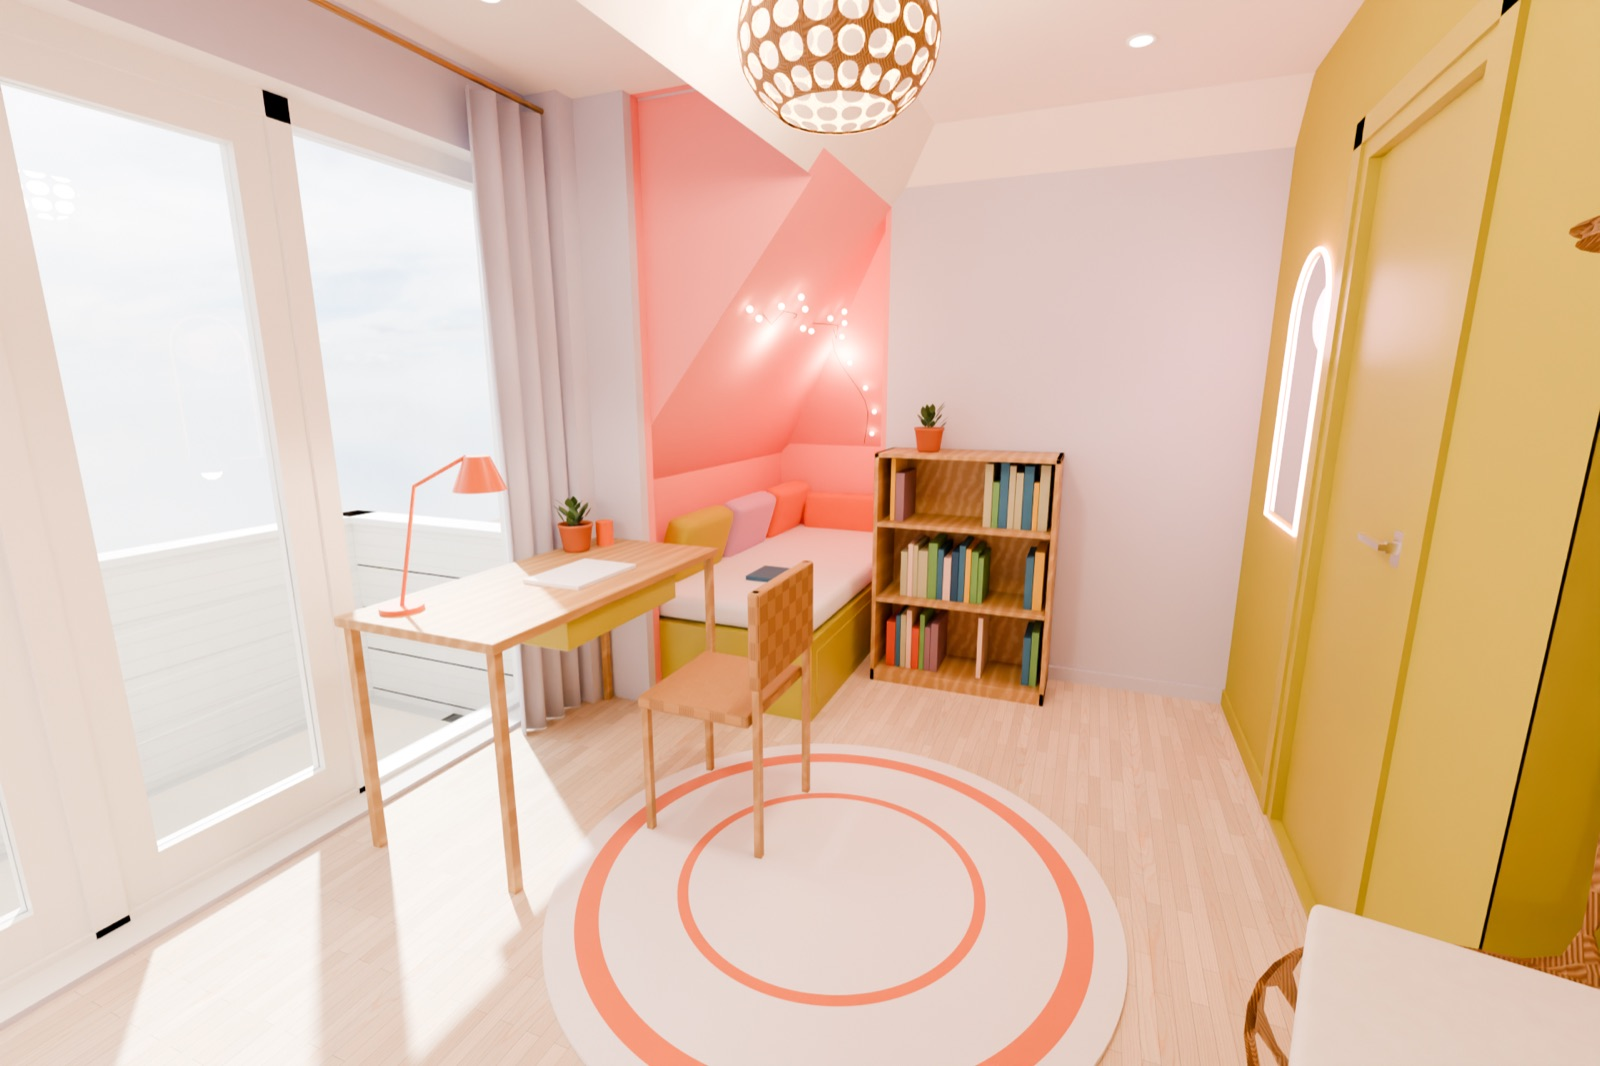
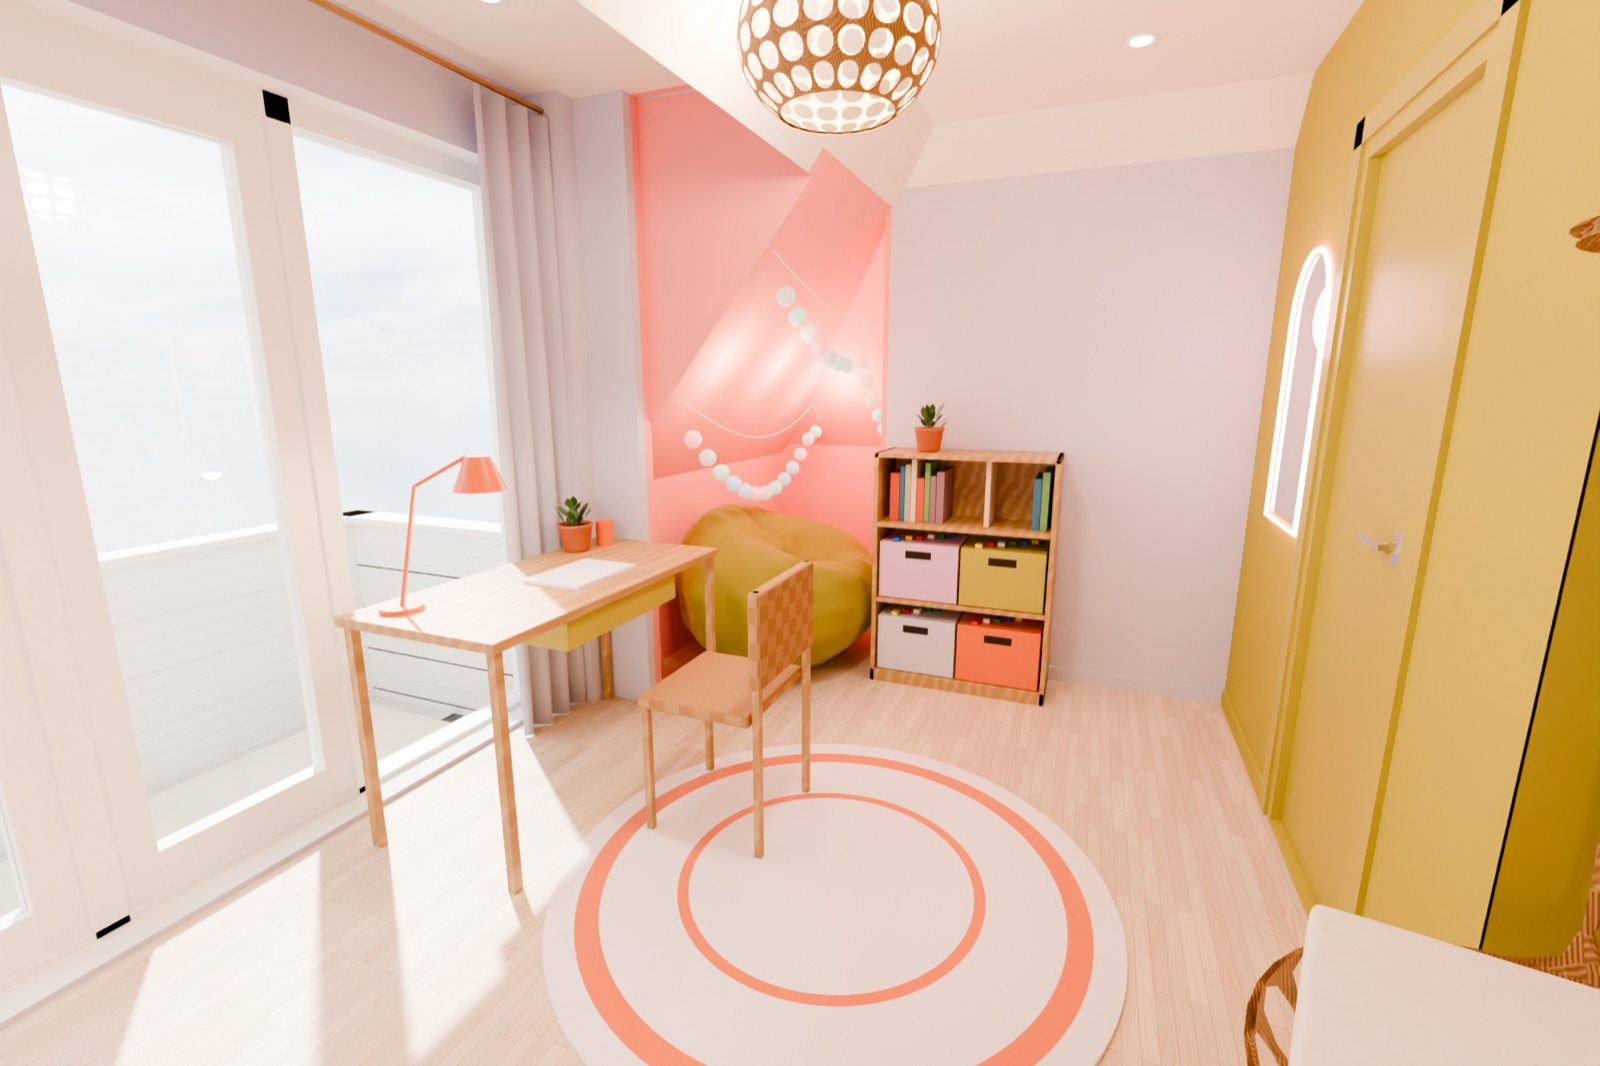
Meisjeskamer: chillhoek met zitzak, cotton-ball slinger, Lego-bakken

diff --git a/uitleg.html b/uitleg.html
@@ -213,7 +213,7 @@
     <div>
       <h3>Meisjeskamer: haar eigen kleuren</h3>
       <p>De kleuren komen uit haar eigen palet: Lilac, Baby Blue, Flamingo, Poppy en Olive. De wanden zijn in hun geheel geverfd. De wand achter de bedbank is Lilac. De deurwand met de hangstoel is Olive, met de deuren en plinten mee in die kleur. De overige wanden zijn Baby Blue. Zo is de kamer stoerder en minder roze. Het verfwerk is bewust rustig, zonder geschilderde vormen. Het bed is een witte IKEA Hemnes bedbank met drie lades, ingeschoven en met de lange kant tegen de dichte buurmuur. Er liggen wit beddengoed, een flamingo plaid en kussens in Poppy en lila op, en erboven hangt een Poppy wandlampje. De gordijnen zijn linnen in Baby Blue. De kamer blijft licht.</p>
-      <p>Tussen de kamerdeur en de inbouwkast hangt een rotan hangstoel aan een zwarte ketting, met een lichtgrijs kussen met roze tekst en een witte schapenvacht. Tussen de boekenkast en de deur hangt een boogvormige spiegel met een flamingo neonlijn. De lage hoek onder de schuinte naast de trap wordt een leeshoek: een olijfgroen podium met lades, kussens, een voile ervoor en de nis en schuinte in Flamingo met een lichtsnoer. Langs de trapwand staat een lage open boekenkast, en voor het vaste glas links een bureau van 120 × 60 met een Poppy-lampje. Achter de tweede deur zit de bestaande inbouwkast.</p>
+      <p>Tussen de kamerdeur en de inbouwkast hangt een rotan hangstoel aan een zwarte ketting, met een lichtgrijs kussen met roze tekst en een witte schapenvacht. Tussen de boekenkast en de deur hangt een boogvormige spiegel met een flamingo neonlijn. De lage hoek onder de schuinte naast de trap is een chillhoek om te lezen. De nis en de schuinte zijn Flamingo, er staat een grote zitzak in olijf velours met een rond vloerkussen, en onder de schuinte hangt een slinger van pastel cotton balls met warm licht. Langs de trapwand staat een lage open boekenkast met onderin vier bakken voor de Lego, en voor het vaste glas links een bureau van 120 × 60 met een Poppy-lampje. Achter de tweede deur zit de bestaande inbouwkast.</p>
       <p>De kleurnamen en hexcodes komen uit haar palet en zijn geen LAB-kleuren. Bij LAB kun je er de dichtstbijzijnde verf bij laten zoeken.</p>
       <div class="tags"><span class="tag"><i style="background:#CBCADC"></i>Baby Blue</span><span class="tag"><i style="background:#D9ADD1"></i>Lilac</span><span class="tag"><i style="background:#F69593"></i>Flamingo</span><span class="tag"><i style="background:#E26728"></i>Poppy</span><span class="tag"><i style="background:#AEA434"></i>Olive</span></div>
     </div>
@@ -318,7 +318,7 @@
       <tr><td>Slaapkamer</td><td>Nachtkastjes, bureautje, Akari-hanglamp</td><td>Walnoot; keramische lampjes met linnen kap</td></tr>
       <tr><td>Meisjeskamer</td><td>IKEA Hemnes bedbank met 3 lades, wit</td><td>Ingeschoven, lange kant tegen de buurmuur; wandlampje erboven</td></tr>
       <tr><td>Meisjeskamer</td><td>Rotan hangstoel, neon spiegel</td><td>Hangstoel aan een ketting tussen de kamerdeur en de inbouwkast; boogspiegel met flamingo neonlijn naast de deur</td></tr>
-      <tr><td>Meisjeskamer</td><td>Leeshoek met podium en lades</td><td>Onder de schuinte naast de trap; matras, kussens, voile, lichtsnoer</td></tr>
+      <tr><td>Meisjeskamer</td><td>Chillhoek met zitzak</td><td>Onder de schuinte naast de trap; grote zitzak, vloerkussen, voile, cotton-ball slinger</td></tr>
       <tr><td>Meisjeskamer</td><td>Bureau eiken + rotan stoel, open boekenkast</td><td>Bureau 120 × 60 voor het vaste glas bij de balkondeuren; lage boekenkast (80 × 110) langs de trapwand</td></tr>
       <tr><td>Inloopkast</td><td>Open walnoten kastwand, 60 cm diep</td><td>Hangen, planken, lades; led onder de bovenplank; schoenenwand achterin; walnoten schuifdeur naar de gang</td></tr>
       <tr><td>Hele BG</td><td>Linnen wavegordijnen, naturel</td><td>Bijv. GAMMA Marleen 4341 linnen, op maat en gevoerd; vouw- en rolgordijnen in dezelfde stof</td></tr>

diff --git a/index.html b/index.html
@@ -163,7 +163,7 @@ const LINKS = {
 };
 const VOLGORDE = ['woonkamer', 'vleugel', 'eetzone', 'keuken', 'erker', 'eiland', 'speelkamer', 'hal', 'slaapkamer', 'slaapkamerbed', 'badkamer',
                   'overloop', 'gang', 'portaal', 'ouders', 'oudersraam', 'kinderkamer', 'kinderbedstede', 'meisjeskamer', 'meisjesleeshoek', 'inloopkast'];
-const HEEFT_FOTO = new Set(['badkamer-avond', 'badkamer', 'eetzone-avond', 'eetzone', 'eiland-avond', 'eiland', 'erker-avond', 'erker', 'gang-avond', 'gang', 'hal-avond', 'hal', 'inloopkast-avond', 'inloopkast', 'keuken-avond', 'keuken', 'kinderbedstede-avond', 'kinderbedstede', 'kinderkamer-avond', 'kinderkamer', 'meisjeskamer-avond', 'meisjeskamer', 'meisjesleeshoek-avond', 'meisjesleeshoek', 'ouders-avond', 'overloop-avond', 'overloop', 'portaal-avond', 'portaal', 'slaapkamer-avond', 'slaapkamer', 'slaapkamerbed-avond', 'slaapkamerbed', 'speelkamer-avond', 'speelkamer', 'vleugel-avond', 'vleugel', 'woonkamer-avond', 'woonkamer']);   // AI-versies die er zijn
+const HEEFT_FOTO = new Set(['badkamer-avond', 'badkamer', 'eetzone-avond', 'eetzone', 'eiland-avond', 'eiland', 'erker-avond', 'erker', 'gang-avond', 'gang', 'hal-avond', 'hal', 'inloopkast-avond', 'inloopkast', 'keuken-avond', 'keuken', 'kinderbedstede-avond', 'kinderbedstede', 'kinderkamer-avond', 'kinderkamer', 'ouders-avond', 'ouders', 'oudersraam-avond', 'oudersraam', 'overloop-avond', 'overloop', 'portaal-avond', 'portaal', 'slaapkamer-avond', 'slaapkamer', 'slaapkamerbed-avond', 'slaapkamerbed', 'speelkamer-avond', 'speelkamer', 'vleugel-avond', 'vleugel', 'woonkamer-avond', 'woonkamer']);   // AI-versies die er zijn
 const HEEFT_PANO = new Set(['badkamer-avond', 'badkamer', 'eetzone-avond', 'eetzone', 'eiland-avond', 'eiland', 'erker-avond', 'erker', 'gang-avond', 'gang', 'hal-avond', 'hal', 'inloopkast-avond', 'inloopkast', 'keuken-avond', 'keuken', 'kinderbedstede-avond', 'kinderbedstede', 'kinderkamer-avond', 'kinderkamer', 'meisjeskamer-avond', 'meisjeskamer', 'meisjesleeshoek-avond', 'meisjesleeshoek', 'ouders-avond', 'ouders', 'oudersraam-avond', 'oudersraam', 'overloop-avond', 'overloop', 'portaal-avond', 'portaal', 'slaapkamer-avond', 'slaapkamer', 'slaapkamerbed-avond', 'slaapkamerbed', 'speelkamer-avond', 'speelkamer', 'vleugel-avond', 'vleugel', 'woonkamer-avond', 'woonkamer']);   // 3D-renders die er zijn (publiceer_site.sh); standplaatsen zonder render vallen weg
 for (const id of Object.keys(SPOTS)) if (!HEEFT_PANO.has(id)) { delete SPOTS[id]; delete LINKS[id]; }
 VOLGORDE.splice(0, VOLGORDE.length, ...VOLGORDE.filter(id => SPOTS[id]));
